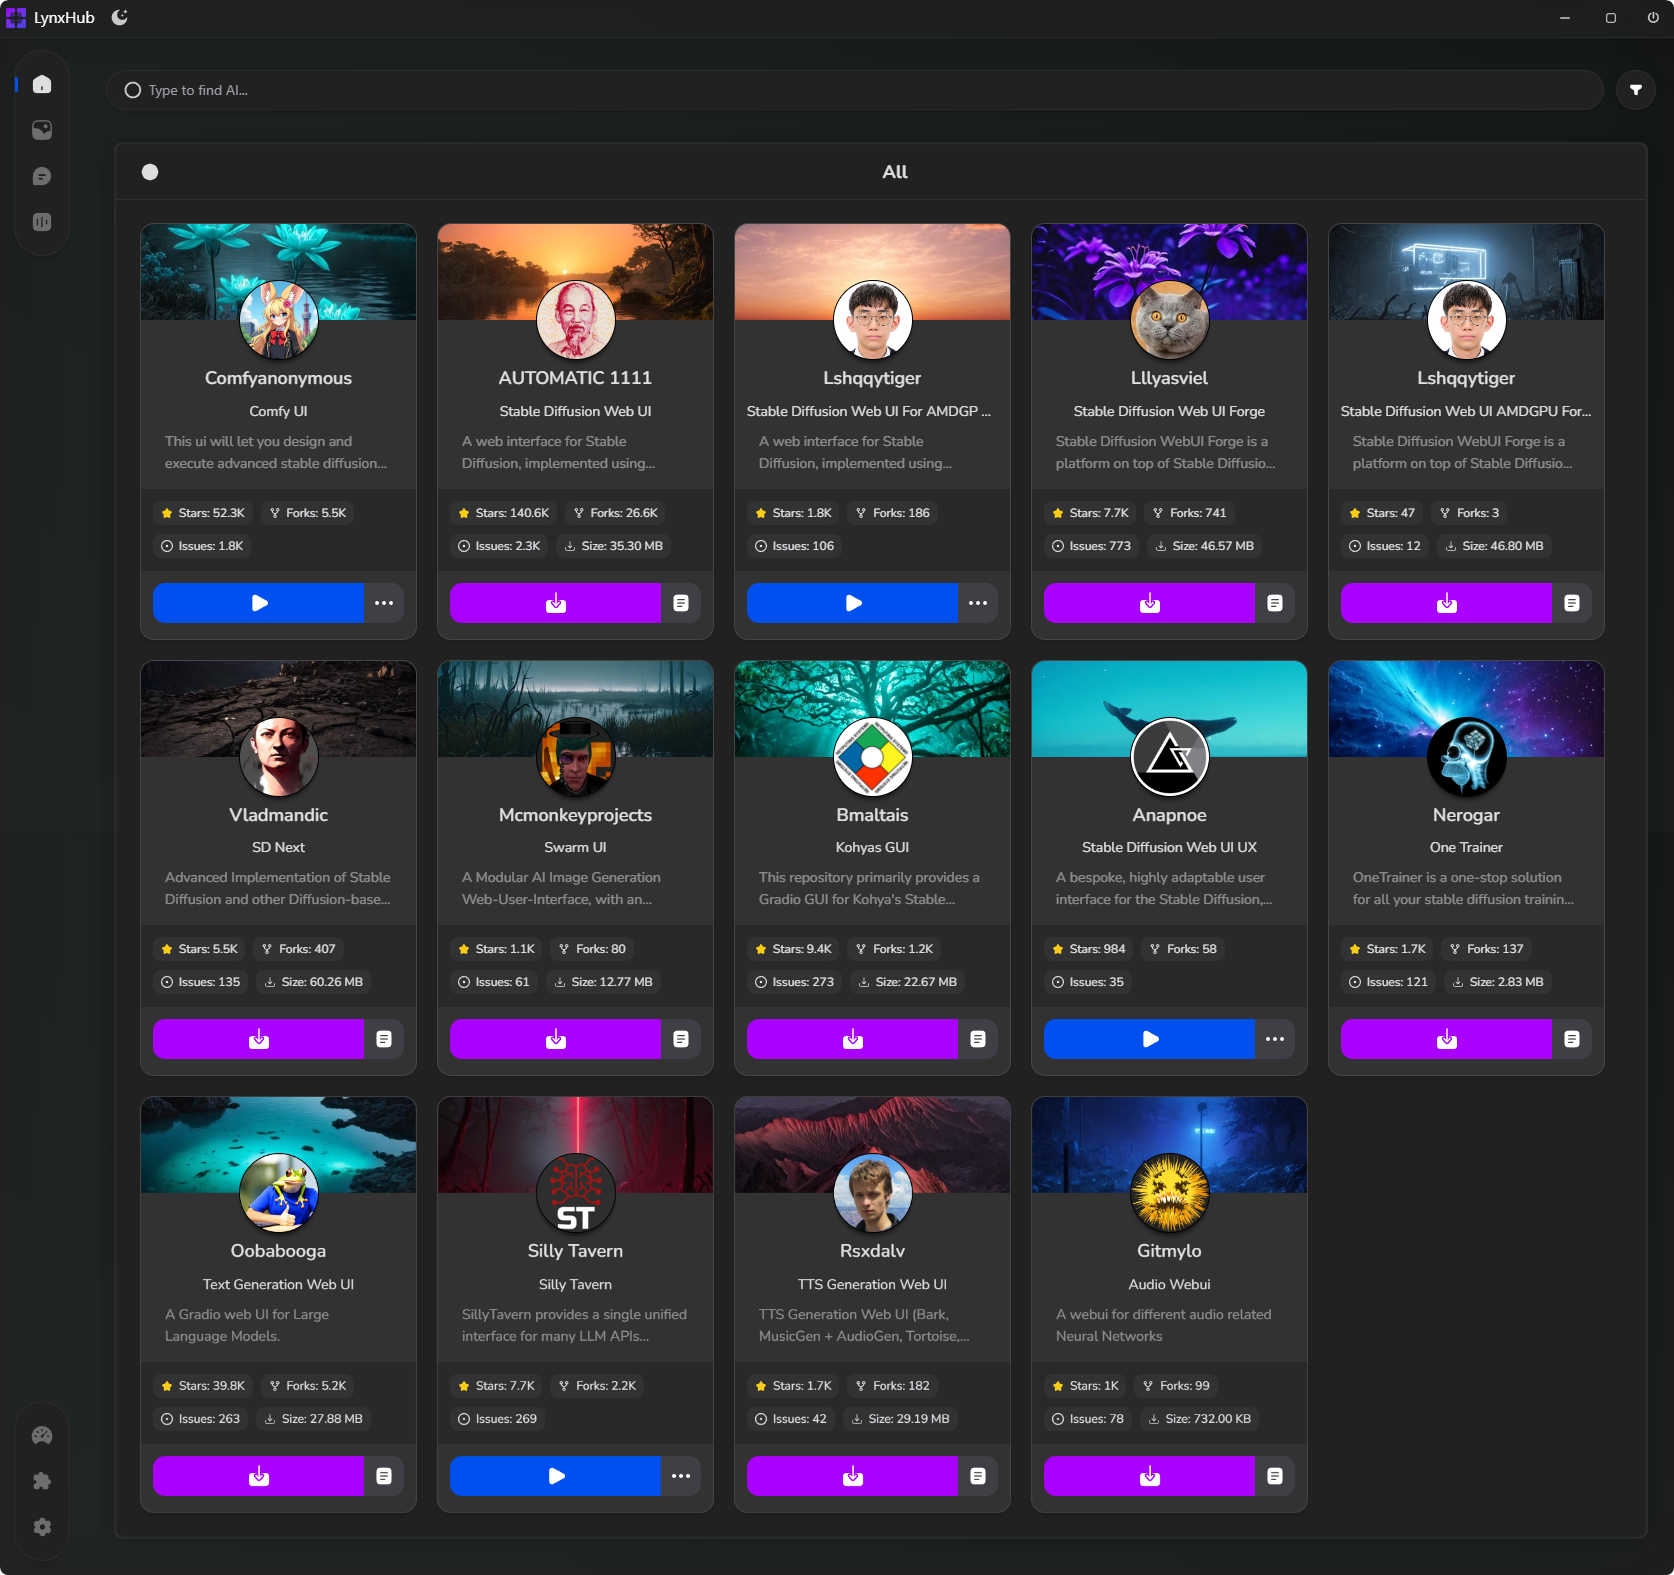
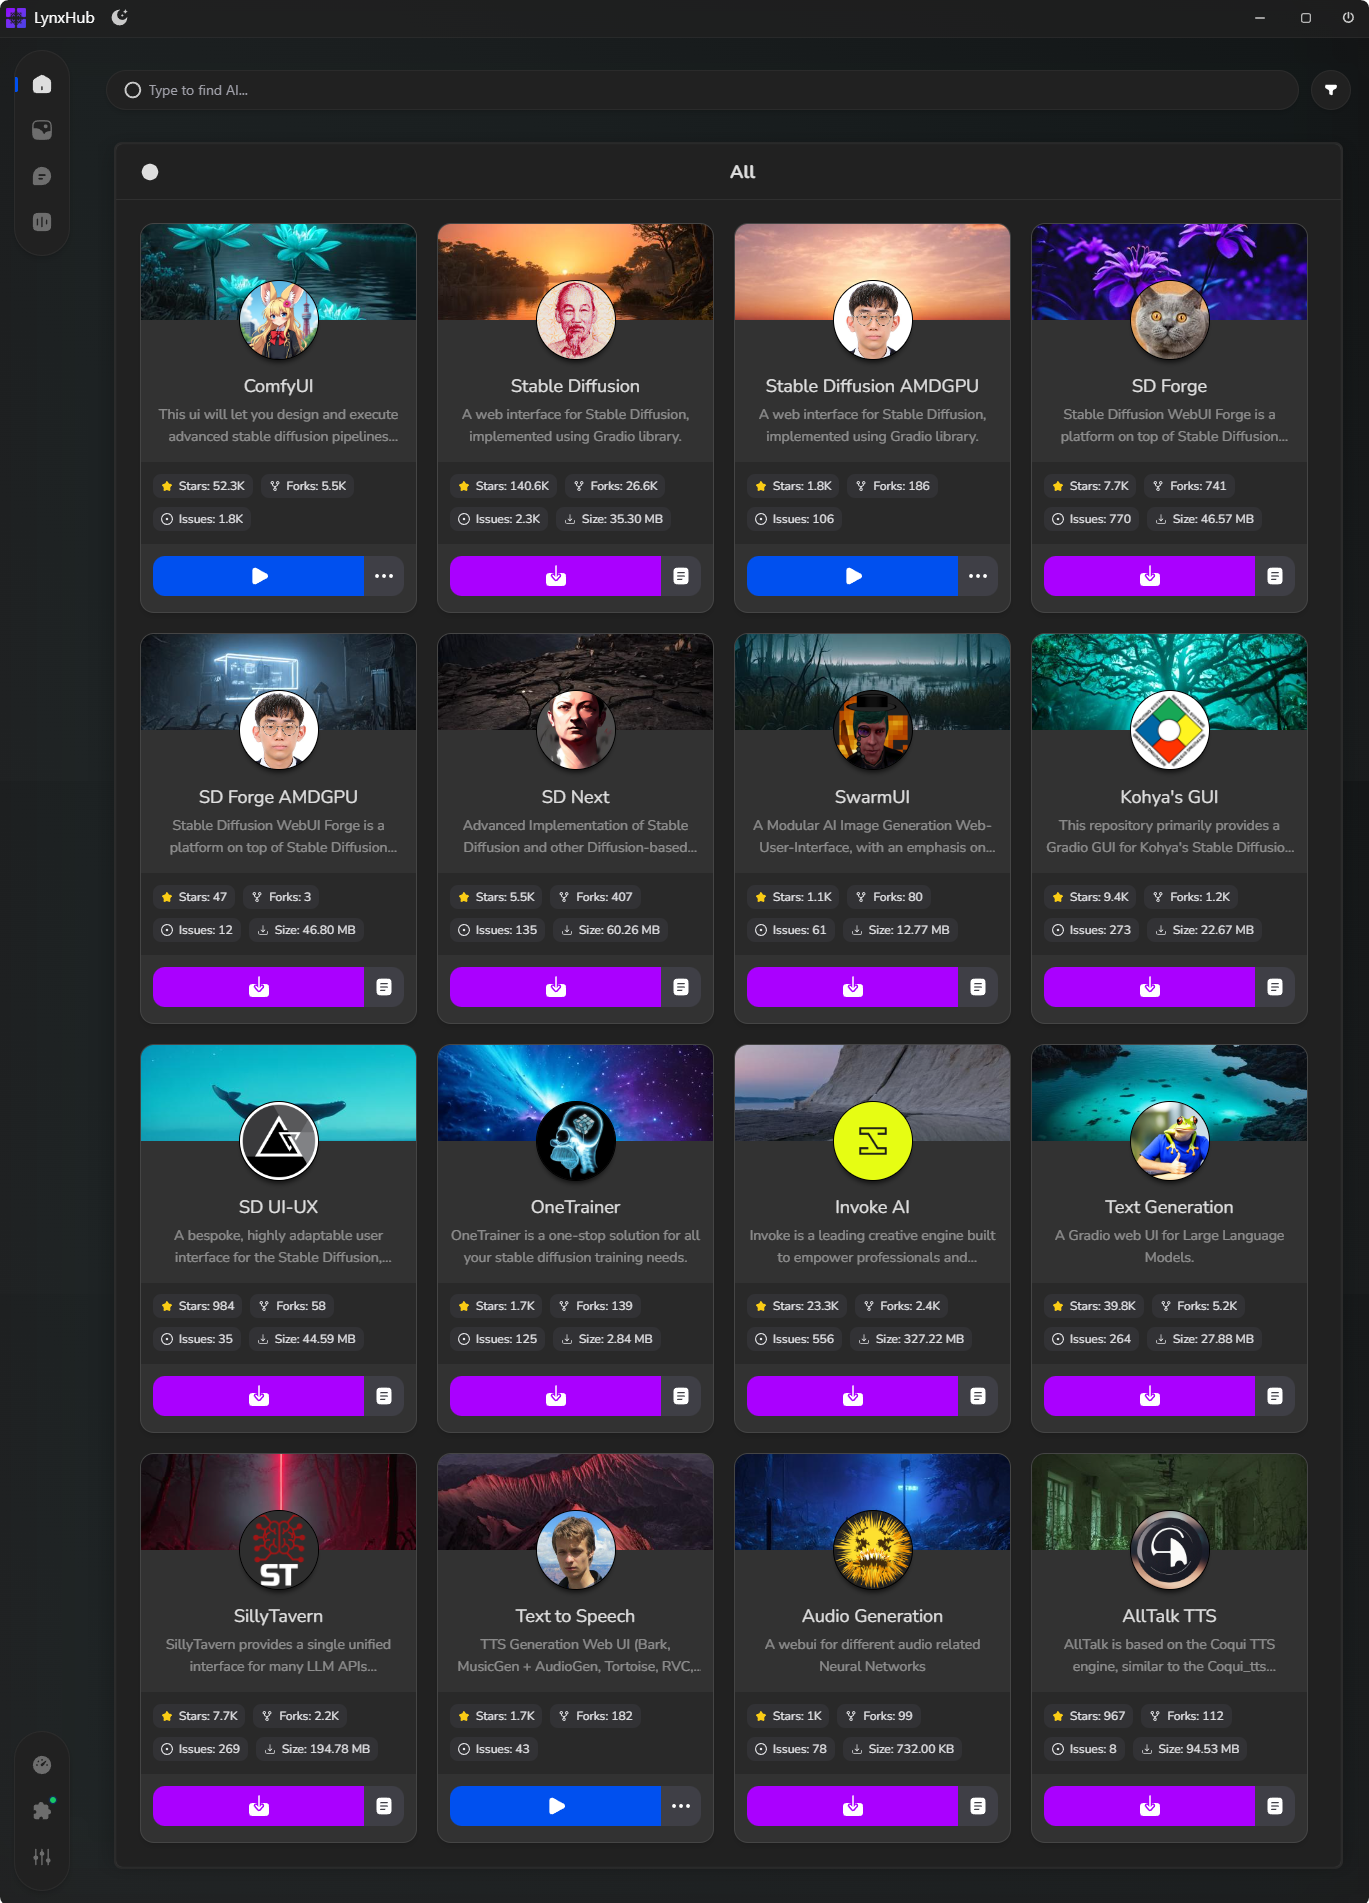
chore: update readme

diff --git a/README.md b/README.md
@@ -8,7 +8,7 @@ A comprehensive collection of WebUI modules featuring **full support** for **arg
 
 <img src="resources/screenshot.png">
 
-</div>
+</div>+
 
 ## 🚀 Available Modules
 
@@ -17,29 +17,31 @@ A comprehensive collection of WebUI modules featuring **full support** for **arg
 | Developer                                                                                          | Description                                        | GitHub                                                                     |
 |----------------------------------------------------------------------------------------------------|----------------------------------------------------|----------------------------------------------------------------------------|
 | <img height='20' src="https://avatars.githubusercontent.com/u/121283862?s=20&v=4"> ComfyAnonymous  | ComfyUI                                            | [Link](https://github.com/comfyanonymous/ComfyUI)                          |
-| <img height='20' src="https://avatars.githubusercontent.com/u/20920490?s=20&v=4"> Automatic1111    | Stable Diffusion web UI                            | [Link](https://github.com/AUTOMATIC1111/stable-diffusion-webui)            |
-| <img height='20' src="https://avatars.githubusercontent.com/u/39524005?s=20&v=4"> Lshqqytiger      | Stable Diffusion web UI for AMDGPUs                | [Link](https://github.com/lshqqytiger/stable-diffusion-webui-amdgpu)       |
-| <img height='20' src="https://avatars.githubusercontent.com/u/39524005?s=20&v=4"> Lshqqytiger      | Stable Diffusion WebUI AMDGPU Forge                | [Link](https://github.com/lshqqytiger/stable-diffusion-webui-amdgpu-forge) |
-| <img height='20' src="https://avatars.githubusercontent.com/u/19834515?s=20v=4"> Lllyasviel        | Stable Diffusion WebUI Forge                       | [Link](https://github.com/lllyasviel/stable-diffusion-webui-forge)         |
-| <img height='20' src="https://avatars.githubusercontent.com/u/57876960?s=20&v=4"> Vladmandic       | SD.Next                                            | [Link](https://github.com/vladmandic/automatic)                            |
+| <img height='20' src="https://avatars.githubusercontent.com/u/20920490?s=20&v=4"> Automatic1111    | Stable Diffusion                                   | [Link](https://github.com/AUTOMATIC1111/stable-diffusion-webui)            |
+| <img height='20' src="https://avatars.githubusercontent.com/u/39524005?s=20&v=4"> Lshqqytiger      | Stable Diffusion AMDGPU                            | [Link](https://github.com/lshqqytiger/stable-diffusion-webui-amdgpu)       |
+| <img height='20' src="https://avatars.githubusercontent.com/u/19834515?s=20v=4"> Lllyasviel        | SD Forge                                           | [Link](https://github.com/lllyasviel/stable-diffusion-webui-forge)         |
+| <img height='20' src="https://avatars.githubusercontent.com/u/39524005?s=20&v=4"> Lshqqytiger      | SD Forge AMDGPU                                    | [Link](https://github.com/lshqqytiger/stable-diffusion-webui-amdgpu-forge) |
+| <img height='20' src="https://avatars.githubusercontent.com/u/57876960?s=20&v=4"> Vladmandic       | SD Next                                            | [Link](https://github.com/vladmandic/automatic)                            |
 | <img height='20' src="https://avatars.githubusercontent.com/u/43497670?s=20&v=4"> McMonkeyProjects | SwarmUI                                            | [Link](https://github.com/mcmonkeyprojects/SwarmUI)                        |
 | <img height='20' src="https://avatars.githubusercontent.com/u/7474674?s=20&v=4"> Bmaltais          | Kohya's GUI                                        | [Link](https://github.com/bmaltais/kohya_ss)                               |
-| <img height='20' src="https://avatars.githubusercontent.com/u/124302297?s=20&v=4"> Anapnoe         | Stable Diffusion web UI-UX                         | [Link](https://github.com/anapnoe/stable-diffusion-webui-ux)               |
+| <img height='20' src="https://avatars.githubusercontent.com/u/124302297?s=20&v=4"> Anapnoe         | SD UI-UX                                           | [Link](https://github.com/anapnoe/stable-diffusion-webui-ux)               |
 | <img height='20' src="https://avatars.githubusercontent.com/u/3390934?s=20&v=4"> Nerogar           | OneTrainer (Available in LynxHub V1.3.0 and above) | [Link](https://github.com/Nerogar/OneTrainer)                              |
+| <img height='20' src="https://avatars.githubusercontent.com/u/113954515?s=20&v=4"> InvokeAI        | InvokeAI (Available in LynxHub V1.3.0 and above)   | [Link](https://github.com/invoke-ai/InvokeAI)                              |
 
 ### 📝 Text Generation
 
-| Developer                                                                                      | Description            | GitHub                                                     |
-|------------------------------------------------------------------------------------------------|------------------------|------------------------------------------------------------|
-| <img height='20' src="https://avatars.githubusercontent.com/u/112222186?s=20&v=4"> Oobabooga   | Text generation web UI | [Link](https://github.com/oobabooga/text-generation-webui) |
-| <img height='20' src="https://avatars.githubusercontent.com/u/134869877?s=20&v=4"> SillyTavern | SillyTavern            | [Link](https://github.com/SillyTavern/SillyTavern)         |
+| Developer                                                                                      | Description     | GitHub                                                     |
+|------------------------------------------------------------------------------------------------|-----------------|------------------------------------------------------------|
+| <img height='20' src="https://avatars.githubusercontent.com/u/112222186?s=20&v=4"> Oobabooga   | Text Generation | [Link](https://github.com/oobabooga/text-generation-webui) |
+| <img height='20' src="https://avatars.githubusercontent.com/u/134869877?s=20&v=4"> SillyTavern | SillyTavern     | [Link](https://github.com/SillyTavern/SillyTavern)         |
 
 ### 🎵 Audio Generation
 
-| Developer                                                                                 | Description          | GitHub                                                  |
-|-------------------------------------------------------------------------------------------|----------------------|---------------------------------------------------------|
-| <img height='20' src="https://avatars.githubusercontent.com/u/6757283?s=20&v=4"> Rsxdalv  | TTS Generation WebUI | [Link](https://github.com/rsxdalv/tts-generation-webui) |
-| <img height='20' src="https://avatars.githubusercontent.com/u/36931363?s=20&v=4"> Gitmylo | Audio Webui          | [Link](https://github.com/gitmylo/audio-webui)          |
+| Developer                                                                                 | Description      | GitHub                                                  |
+|-------------------------------------------------------------------------------------------|------------------|---------------------------------------------------------|
+| <img height='20' src="https://avatars.githubusercontent.com/u/6757283?s=20&v=4"> Rsxdalv  | Text to Speech   | [Link](https://github.com/rsxdalv/tts-generation-webui) |
+| <img height='20' src="https://avatars.githubusercontent.com/u/36931363?s=20&v=4"> Gitmylo | Audio Generation | [Link](https://github.com/gitmylo/audio-webui)          |
+| <img height='20' src="https://avatars.githubusercontent.com/u/35898566?s=20&v=4"> Gitmylo | AllTalk TTS      | [Link](https://github.com/erew123/alltalk_tts)          |
 
 > [!Note]
 >
@@ -49,10 +51,10 @@ A comprehensive collection of WebUI modules featuring **full support** for **arg
 
 | Category         | Number of Modules |
 |------------------|-------------------|
-| **Overall**      | **14**            |
-| Image Generation | 10                |
+| **Overall**      | **16**            |
+| Image Generation | 11                |
 | Text Generation  | 2                 |
-| Audio Generation | 2                 |
+| Audio Generation | 3                 |
 
 ## 🔍 Explore More
 
